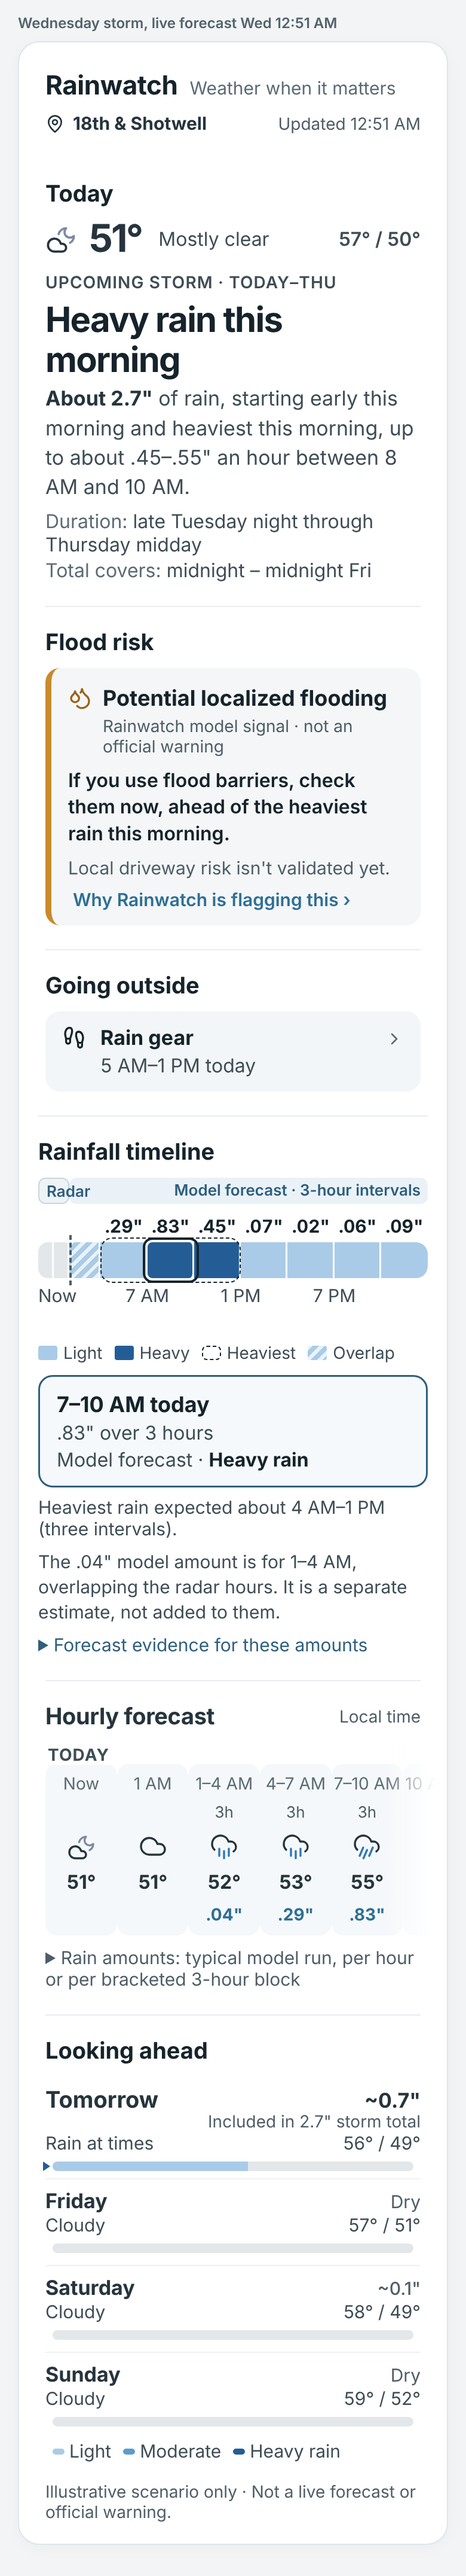
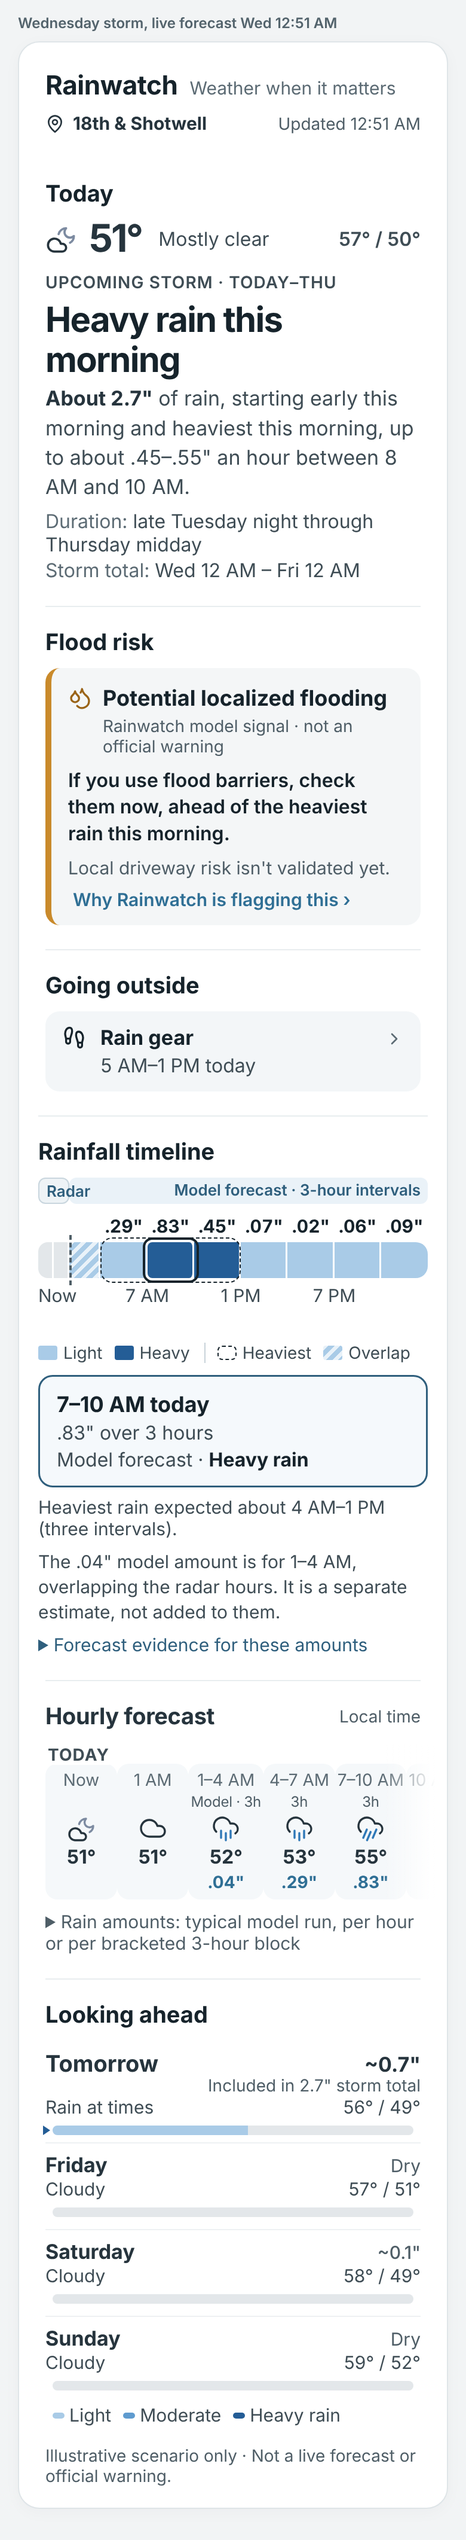
Option B design review: Model · 3h overlap tile, tighter equal-height tiles, separated Heaviest key, explicit storm-total window
Claude-Session: https://claude.ai/code/session_01DGZCEbHLV5VJSPz5Ug97vc

diff --git a/card/src/components/WeatherCard.tsx b/card/src/components/WeatherCard.tsx
@@ -6,7 +6,7 @@ import { isUnknown, showTimeline } from '../lib/rules';
 import { amountsVsTotal, edgeNote, eventHero, fiveDays, fmtAmount, hourAmounts, hourLabel, nowNext, tenths, type EventHero, rainAmount, stripCoverageNote, stripWords, upcomingEvent, type FiveDayRow } from '../lib/derive';
 import { WeatherIcon } from './WeatherIcon';
 import { Timeline, type GraphStyle, type PotentialStyle } from './Timeline';
-import { barAmount, clockRange, dayInStormTotal, eligibleBars, hourTiles, stormTotalWindow, heaviestNote, hourText, initialSelection, INTENSITY_LEGEND, intervalDetail, goingOutside, propertyFlood, sourcesCaption, todayTimeline, type TodayTimeline as TodayT } from '../lib/today';
+import { barAmount, clockRange, dayClock, dayInStormTotal, eligibleBars, hourTiles, stormTotalWindow, heaviestNote, hourText, initialSelection, INTENSITY_LEGEND, intervalDetail, goingOutside, propertyFlood, sourcesCaption, todayTimeline, type TodayTimeline as TodayT } from '../lib/today';
 
 /**
  * The integrated card (v0.12). One composition for every scenario:
@@ -64,7 +64,7 @@ function EventHeroView({ s, e }: { s: Scenario; e: EventHero }) {
     <p className="headline">{e.headline}</p>
     <p className="headline-detail event-sentence">{rest !== null ? <><strong>{e.amount}</strong>{rest}</> : e.sentence}</p>
     <p className="event-duration"><span>Duration:</span> {e.duration}</p>
-    {tw && <p className="event-duration total-window"><span>Total covers:</span> {hourText(s, tw.from)} – {hourText(s, tw.to)}</p>}
+    {tw && <p className="event-duration total-window"><span>Storm total:</span> {dayClock(s, tw.from)} – {dayClock(s, tw.to)}</p>}
     {up && <Upcoming up={up} target={fiveDays(s) ? `five-day-${up.dayIndex}` : null} />}
   </section>;
 }
@@ -126,7 +126,7 @@ function RainfallTimeline({ s, t, initial }: { s: Scenario; t: TodayT; initial?:
     </div>
     <div className="today-legend" aria-label="Intensity">{INTENSITY_LEGEND.filter(l => lvls.has(l.level)).map(l =>
       <span key={l.level} title={l.range}><i className={`sw i${l.level}`} />{l.name}</span>)}
-      {t.heavy && <span><i className="sw-heavy" />Heaviest</span>}{over && <span><i className="sw-over" />Overlap</span>}</div>
+      {t.heavy && <span className="legend-outline"><i className="sw-heavy" />Heaviest</span>}{over && <span className={t.heavy ? '' : 'legend-outline'}><i className="sw-over" />Overlap</span>}</div>
     {det && <div className="interval-card" aria-live="polite">
       <strong>{det.title}</strong><span>{det.amount}</span><span>{det.source} · <b>{det.intensity}</b></span></div>}
     {note && <p className="heaviest-note">{note}</p>}
@@ -192,7 +192,7 @@ function Hourly({ s }: { s: Scenario }) {
     items.push(<div className={`hour hour-tile${span > 1 ? ' hour-3h' : ''}${l.day && i > 0 ? ' hour-midnight' : ''}`} role="listitem" key={g.at}
       data-from={g.at} data-to={g.end} data-res={g.res}
       aria-label={`${top}${g.res > 1 ? ` (${g.res}-hour interval${g.overlaps ? ', overlaps radar hours' : ''})` : ''}, ${deg(g.temp)}${g.amount ? `, rain ${g.amount}` : ''}`}>
-      <span>{top}</span><small className="hour-res" aria-hidden>{g.res > 1 ? `${g.res}h` : '\u00a0'}</small>
+      <span>{top}</span><small className="hour-res" aria-hidden>{g.res > 1 ? `${g.overlaps ? 'Model · ' : ''}${g.res}h` : '\u00a0'}</small>
       <WeatherIcon name={icon} size={24} label /><strong>{deg(g.temp)}</strong>
       <em className={`amt amt-${g.amount ? 'rain' : 'dry'}`}>{g.amount}</em>
     </div>);

diff --git a/card/src/lib/option-b.test.ts b/card/src/lib/option-b.test.ts
@@ -43,7 +43,7 @@ describe('Option B acceptance gate', () => {
       const tw = stormTotalWindow(s)!;
       const tot = s.rainTotals!.find(x => (x.fromHour ?? x.startHour) === tw.from)!;
       expect(tw.inches).toBe(tot.medianIn);                         // the hero's total window is the engine stretch
-      expect(h).toContain('Total covers:');
+      expect(h).toMatch(/Storm total:<\/span> (Sun|Mon|Tue|Wed|Thu|Fri|Sat) \d{1,2} (AM|PM) – (Sun|Mon|Tue|Wed|Thu|Fri|Sat) \d{1,2} (AM|PM)<\/p>/);
     });
     it(`${name}: selection is an outline only; initial selection is the heaviest eligible interval`, () => {
       const sel = initialSelection(t)!;
@@ -110,5 +110,19 @@ describe('PR #12 final refinement', () => {
       }
       expect(h).toContain(`Included in ${tenths(stormTotalWindow(s)!.inches)}" storm total`);
     }
+  });
+});
+
+describe('PR #12 design review corrections', () => {
+  it('the overlapping model tile reads "Model · 3h"; ordinary model tiles "3h"', () => {
+    const h = html(stormWedNight());
+    expect(h.match(/class="hour-res" aria-hidden="true">Model · 3h</g)).toHaveLength(1);
+    expect(h).toMatch(/class="hour-res" aria-hidden="true">3h</);
+  });
+  it('the storm-total window uses weekday and clock time', () => {
+    expect(html(stormWed())).toContain('Storm total:</span> Wed 12 AM – Fri 12 AM</p>');
+  });
+  it('the dashed Heaviest key is set apart from the intensity tiers', () => {
+    expect(html(stormWed())).toMatch(/<span class="legend-outline"><i class="sw-heavy"><\/i>Heaviest<\/span>/);
   });
 });

diff --git a/card/src/styles.css b/card/src/styles.css
@@ -316,3 +316,9 @@ details.todo-row[open] .todo-chev{transform:rotate(90deg)}
 .hour.hour-3h{flex-basis:calc(100% / 5.25)}
 .hour .hour-res{display:block;font-size:13px;line-height:16px;color:#4f5e67;margin:0}
 .weather-card .strip-axis{display:none}
+
+/* PR #12 design review */
+.hour.hour-tile{padding:5px 2px;gap:2px}
+.hour.hour-tile .amt{min-height:18px;margin-top:0}
+.today-legend .legend-outline{border-left:1px solid #c9d3d9;padding-left:10px;margin-left:2px}
+.hour .hour-res{white-space:nowrap;font-size:12px;letter-spacing:-.01em}

diff --git a/card/src/lib/today.ts b/card/src/lib/today.ts
@@ -261,3 +261,8 @@ export function hourTiles(s: Scenario): HourTile[] {
   }
   return out;
 }
+/** "Wed 12 AM": weekday and clock time, always explicit (no "midnight", "noon" or "today"). */
+export function dayClock(s: Scenario, h: number) {
+  const L = localHour(s, h), c = `${L % 12 === 0 ? 12 : L % 12} ${L < 12 ? 'AM' : 'PM'}`;
+  return `${dayName(s, h)} ${c}`;
+}
